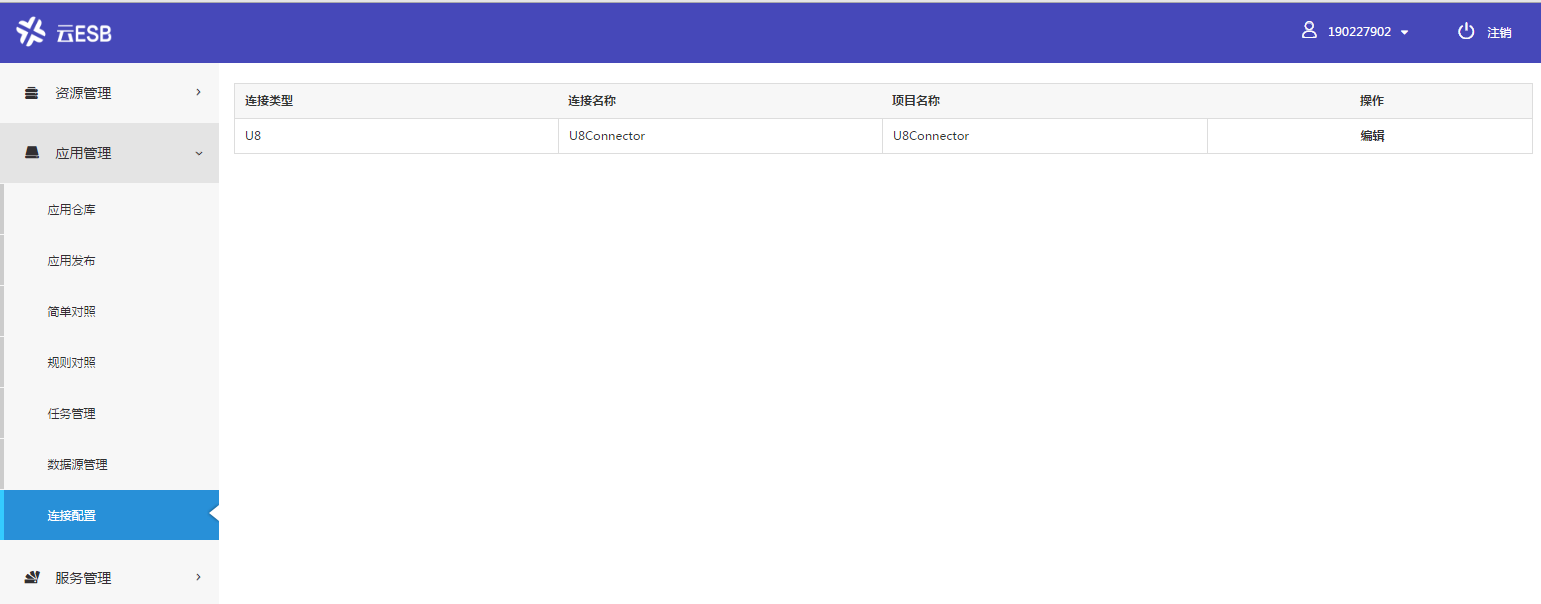
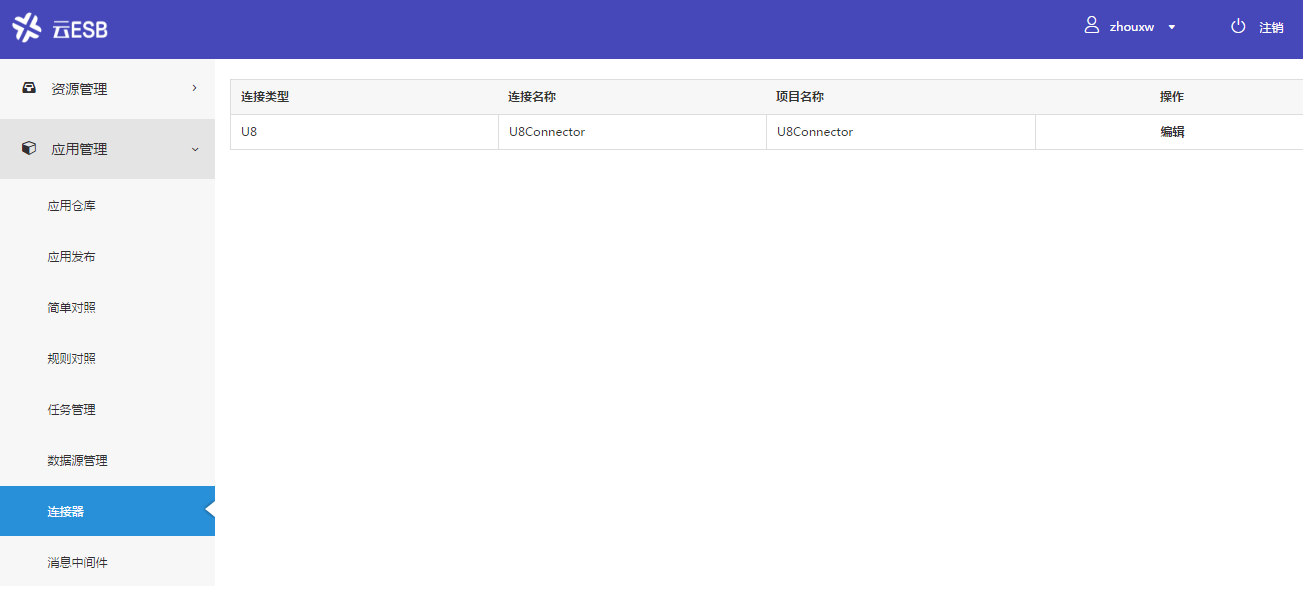
Updates assets/5-/2/image65.png
Auto commit by GitBook Editor

diff --git a/articles/cesb/5-/ying_yong_guan_li.md b/articles/cesb/5-/ying_yong_guan_li.md
@@ -204,19 +204,19 @@
 
 图2.2‑17修改\/删除第三方数据源
 
-## 2.2.7 连接配置
+## 2.2.7 连接器
 
 ### 2.2.7.1 功能介绍
 
-连接配置主要是对连接器信息的配置，包括连接类型、连接名称、项目名称。
+连接器主要是对连接器信息的配置，包括连接类型、连接名称、项目名称。
 
 ### 2.2.7.2 界面说明
 
-单击【应用管理】→【连接配置】，进入连接配置页面。
+单击【应用管理】→【连接器】，进入连接器页面。
 
 ![](/assets/5-/2/image65.png)
 
-图2.2-18连接配置
+图2.2-18连接器
 
 ### 2.2.7.3 操作流程
 
@@ -226,5 +226,26 @@
 
 图2.2-19编辑连接信息
 
-
+## 2.2.8 消息中间件
+
+### 2.2.8.1 功能介绍
+
+消息中间件主要是对连接名称、类型的修改删除操作。
+
+### 2.2.8.2 界面说明
+
+单击【应用管理】→【消息中间件】，进入消息中间件页面。
+ 
+图2.2-20消息中间件
+
+### 2.2.8.3 操作流程
+
+点击〖修改〗按钮，将会从右侧滑出对话框，用户可修改消息配置。可以选择同步至对应server节点。进行测试连接。
+ 
+图2.2-21修改消息配置
+
+单击〖删除〗按钮，弹出提示窗口：
+ 
+图2.2-22删除连接
+
 
